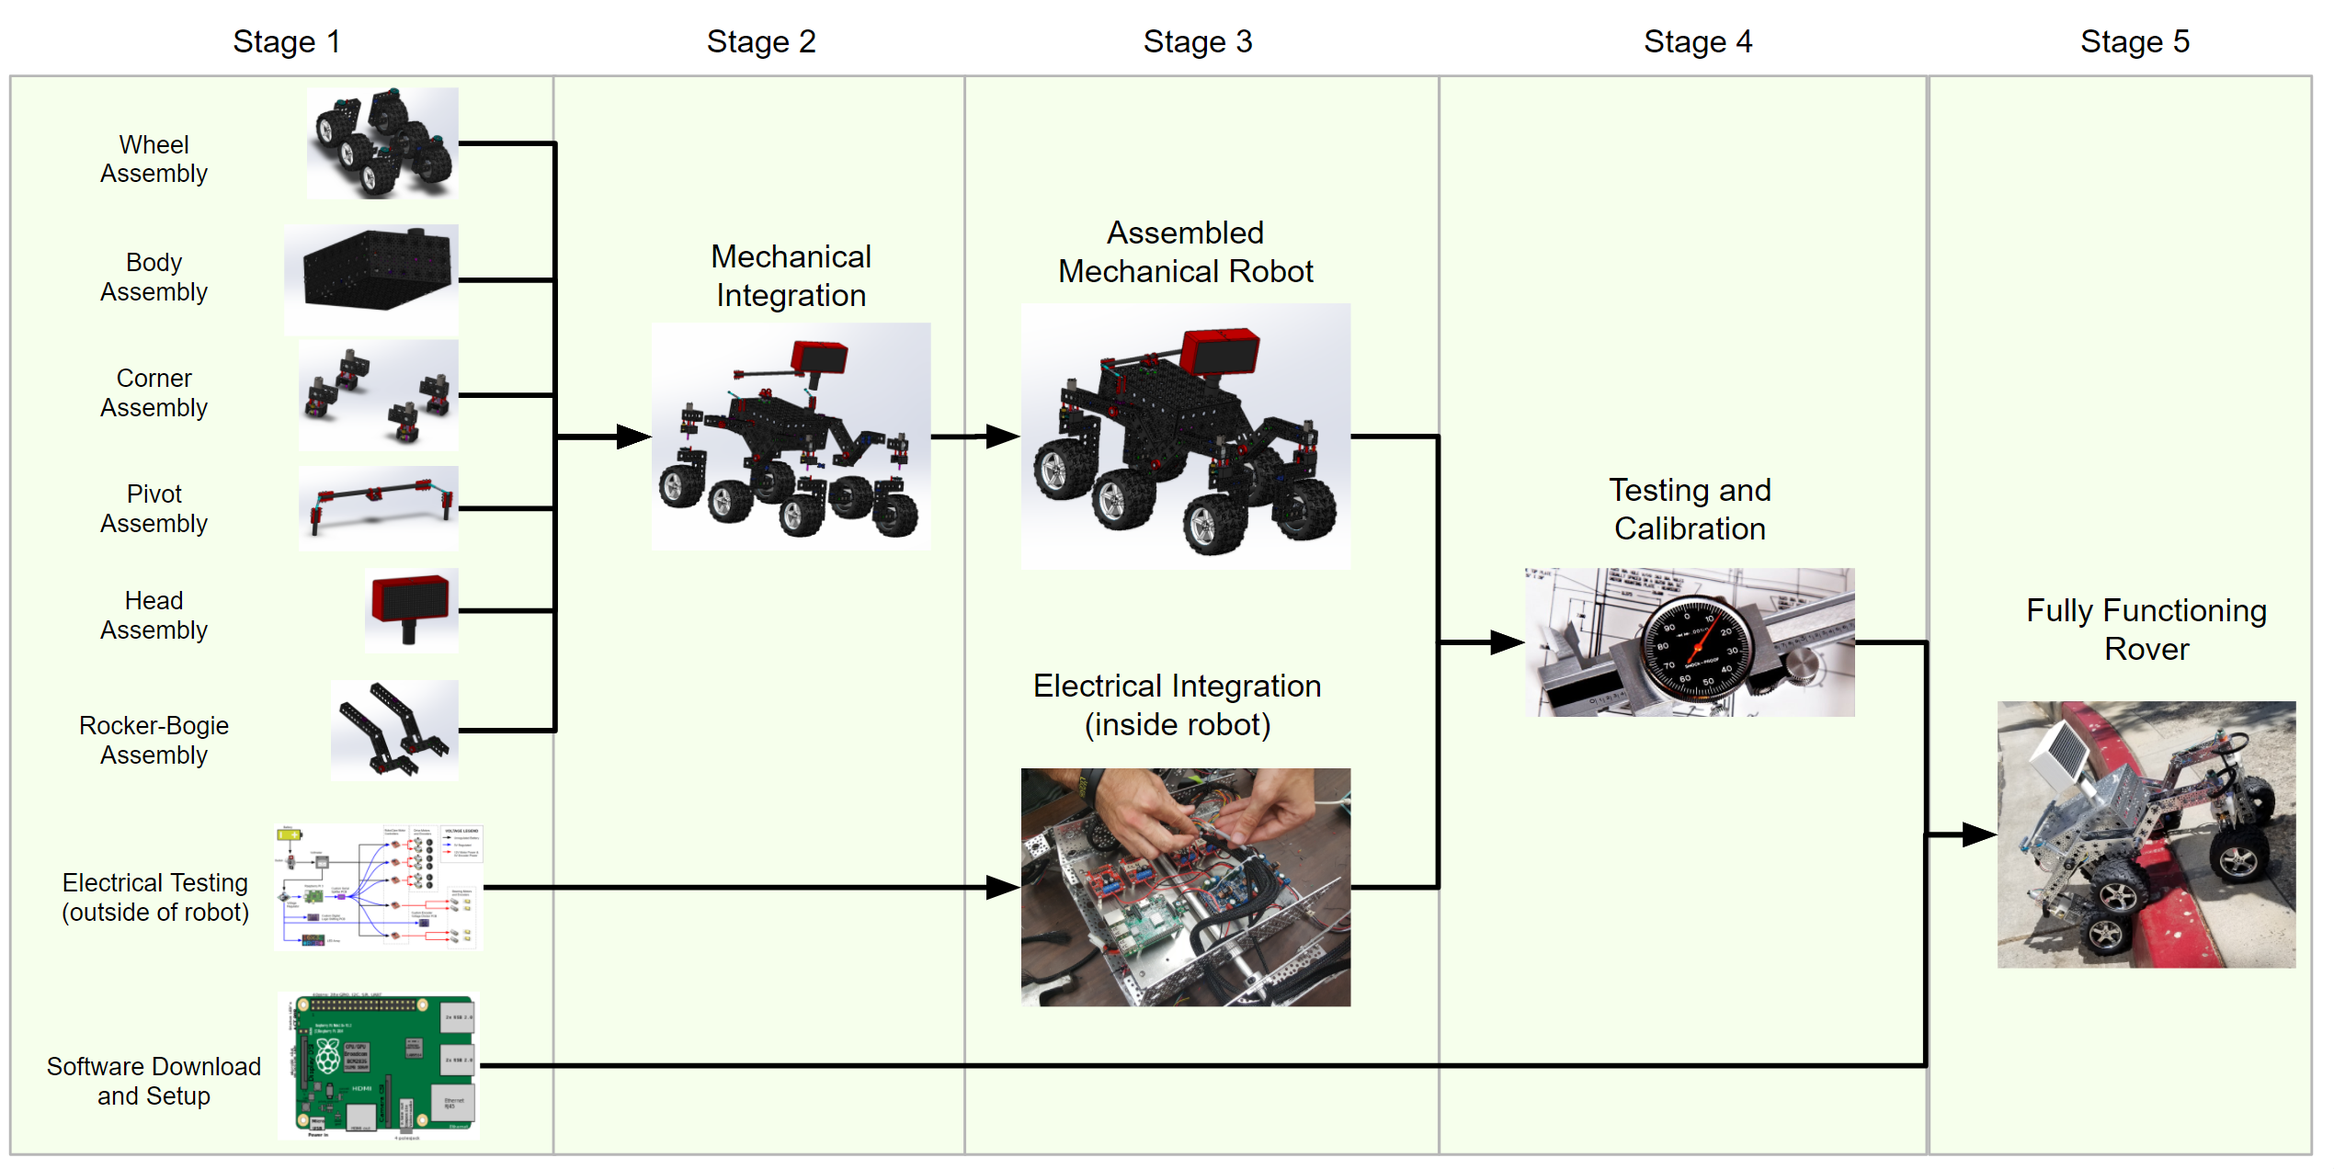
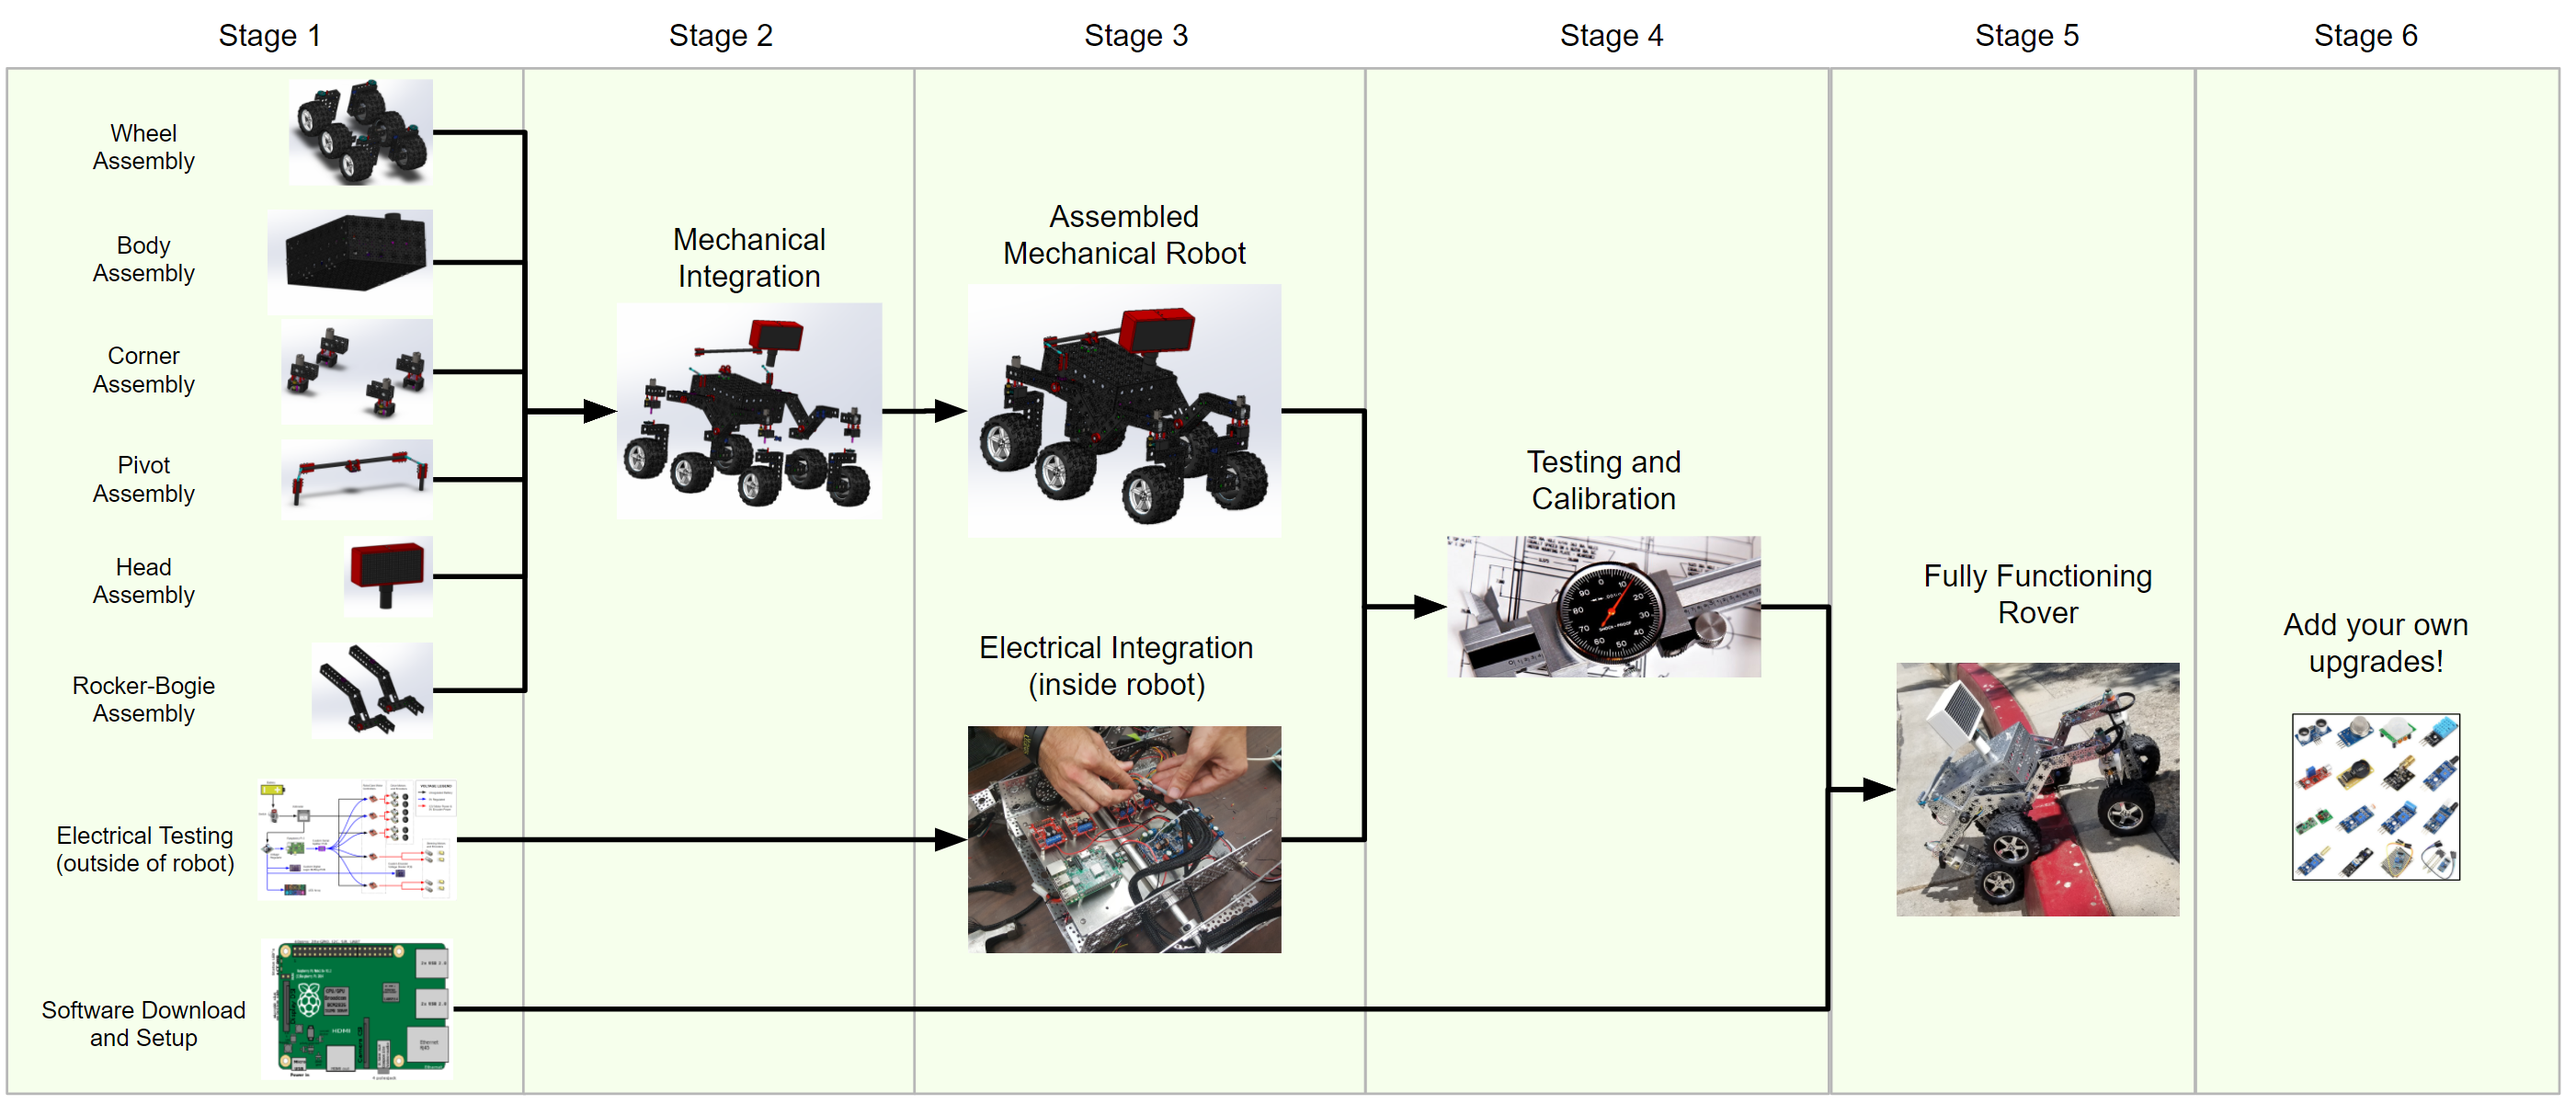
Added stage 6 to readme and road map, and added a time commitment to the project

diff --git a/README.MD b/README.MD
@@ -3,19 +3,23 @@ The JPL Open-Source Rover is a fully open-source scaled version of the 6 wheel r
 
 ![6 Wheel Rover](images/rover.png)
 
-## Motivation
-JPL is always looking at ways to inspire the next generation of sceientists, engineers, and people who will be the next generation we will be exploring the solar system with. We want to give this project as a way to get young engineers a fun robotics project that will get everyone excited about STEM. 
-
 ## Disclaimer
 INSERT LINK TO DISCLAMER AND STATEMENT HERE
 
-## Feautres
+## About the Project
+
+### Motivation
+JPL is always looking at ways to inspire the next generation of sceientists, engineers, and people who will be the next generation we will be exploring the solar system with. We want to give this project as a way to get young engineers a fun robotics project that will get everyone excited about STEM. 
+
+
+
+### Feautres
 This rover is designed to function very similar to the 6 wheel rover designs on mars, and employs a few of the major driving mechanics that the mars rovers use to traverse the surface.
  * __Rocker-Bogie:__ Suspension system for the rover, allowing all 6 wheels to continually be in contact with the ground while climibing over obstacles
  * __Differential Pivot:__ Allows weight to be mechanically offloaded from one side of the rover to the other during climbing
  * __6-Wheel Ackerman Steering:__ Driving and turning mechanism that governs where the wheels point and how fast each of them will move.
 
-## Skills Necessary
+### Skills Necessary
 This project has elements in mechanical assembly/fabrication, uses a host of electrical componenets, and has software that will run it all. In order to complete this project you will need to have some experience in the following tasks:
  * __Fabrication/Machining:__ Although most the parts are COTS there are a few modifications necessary to adapt them to the project. These will be in the form of 
    * Metal cutting using band saw/dremel
@@ -31,19 +35,22 @@ This project has elements in mechanical assembly/fabrication, uses a host of ele
 
 Most of these skills are thing that you can learn and pick up on fairly quickly from watching vidoes and doing research on the internet, and throughout the project we try to give supplemental information on some of these as well. 
 
-# Getting Started
+### Expected time commitment
+This project will likely take around or greater than 150 person-hours to build, and depending on the fimilarity and skill level of those involved could be significantly more. It is meant to be a teaching and learning tool, and throughout the process try to give supplemental information to those who might be new to this kind of project.  
 
-## Folder organization
+## Getting Started
+
+### Folder organization
 ![Rover build roadmap](images/folders.PNG)
 This folder contains all of the documentation and information necessary for the project, broken down into the 3 main sections, Mechanical, Electrical, and Software. The [Master Parts List](osr_Master_parts_list.xlsx) contains all the parts necessary to build the entire of the robot as it is in our documentation. We recognize that many of you might want to change, add, and redesign some sections, so each of the individual build sections also contain a parts list for that corresponding section of the project. *Note that these individual parts list recommend buying quantities necessary only for that section, particularly screws, nuts, bolts, and common hardware should be assessed for totals necessary for the whole project if you are changing subassemblies*
 
-## Ordering parts
+### Ordering parts
 
 __Need information on cart share etc here__
 
 
 
-## Roadmap
+### Roadmap
 
 ![Rover build roadmap](images/roadmap.PNG)
 
@@ -51,6 +58,7 @@ Here we have a proposed roadmap of how you can build the rover and what part of 
 
 
  * __Stage 1:__ Everything in stage 1 is completely parallelizable. It is highly recommended to start on the electrical testing of components outside the robot before doing any electrical work inside the completed robot body. We can also see that the software can be worked on at any stage between here and the end.
+
  * __Stage 2:__ By here the mechanical subassemblies all would be assembled, and there would be various amounts of electrical testing done, as well as various amounts of the software completed. 
 
  * __Stage 3:__ The rover is mechanically built and all subassemblies integrated together, here would begin the integration of the electrical components, and the various power and data wires being connected to devices.
@@ -58,3 +66,5 @@ Here we have a proposed roadmap of how you can build the rover and what part of 
  * __Stage 4:__ With the electronics all powered and communicating you need to test and calibrate all the motors in the system
 
  * __Stage 5:__ Once everything has been tested and calibrated, and the software is now complete the robot will be fully functioning and built!
+
+ * __Stage 6:__ Add your own upgrades! Raspberry Pi was chosen as the brain of the project such that it would be easy to add, change, and upgrade to build exciting things ontop of this already cool robot. 
